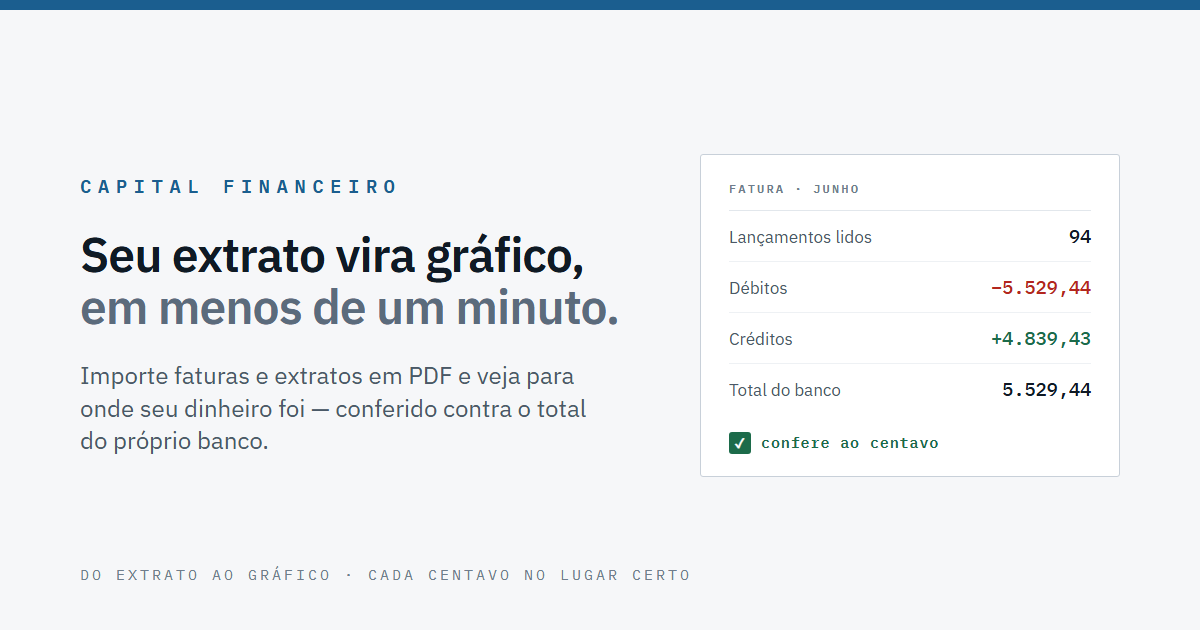
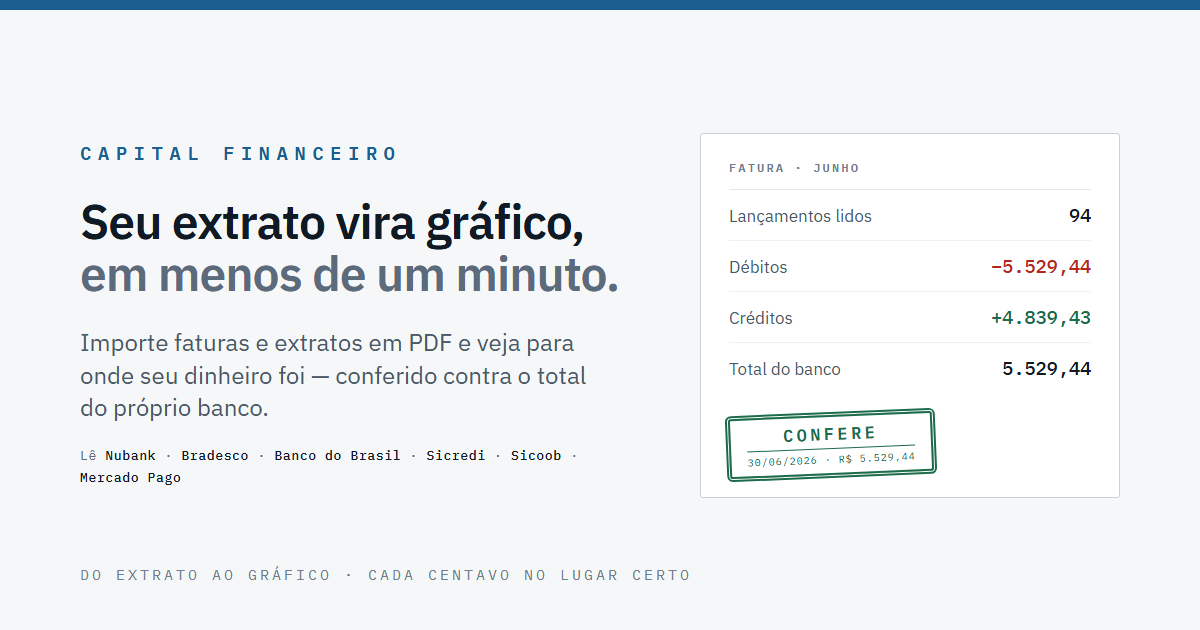
feat(og): o card de compartilhamento ganha o carimbo, e passa a poder trocar
⚠ O og.png publicado era de 12/08 — MAIS ANTIGO que o proprio template que o
gera. O `og-card.html` foi atualizado depois e ninguem regerou a imagem, entao
quem compartilhava o link via um card que nao correspondia nem ao HTML do
repositorio.

O QUE MUDOU NO CARD:

- O "✓ confere ao centavo" num quadradinho virou O CARIMBO, o mesmo que a tela
  desenha desde hoje: traco duplo, inclinado, caixa alta espacejada e o
  detalhe (data e valor) separado por regua. Card que promete uma tela
  diferente da real e propaganda enganosa de si mesmo.
- Entrou a lista dos seis bancos que o app le, com o Mercado Pago. E a
  primeira pergunta de quem ve o link: "serve para o MEU banco?".
- Cada banco carrega o proprio separador e nao quebra no meio — sem isso o "·"
  sobrava sozinho no comeco da segunda linha.

⚠ E O `?v=` NO og:image, QUE E O QUE FAZ ISTO CHEGAR NA TELA DE ALGUEM.
WhatsApp, Telegram e as redes guardam o card por semanas: publicar um og.png
novo na MESMA URL nao muda o que aparece quando o link e compartilhado. Sem o
sufixo, todo este commit seria invisivel — o card velho continuaria saindo. E
a mesma razao do `?v=moeda` que o favicon ja usava, e agora esta escrita ao
lado das duas tags.

npm run verificar verde nos seis passos, CSP incluida (as meta tags nao tocam
o script inline, entao o hash continua valendo).

diff --git a/scripts/og-card.html b/scripts/og-card.html
@@ -111,19 +111,48 @@
       .linha b.debito { color: #b3261e; }
       .linha b.credito { color: #1c6b4a; }
 
-      .confere {
-        display: flex; align-items: center; gap: 10px;
-        margin-top: 18px;
-        font-family: 'Plex Mono', monospace;
-        font-size: 15px; font-weight: 600; letter-spacing: 0.06em;
+      /* O CARIMBO, o mesmo que a tela desenha desde 2026-08-31
+         (`ui/CarimboConferencia.tsx`): traço duplo, inclinado, caixa alta com
+         espacejamento, e o detalhe embaixo separado por régua. Era um ✓ num
+         quadradinho; virou o que o app de fato mostra — um card de
+         compartilhamento que promete uma tela diferente da real é propaganda
+         enganosa de si mesmo. */
+      .carimbo {
+        display: inline-block;
+        margin-top: 22px;
+        padding: 9px 16px 7px;
+        border: 2px solid #1c6b4a;
+        border-radius: 3px;
+        box-shadow: 0 0 0 1px #ffffff, 0 0 0 3px #1c6b4a;
         color: #1c6b4a;
+        transform: rotate(-2.4deg);
+        text-align: center;
       }
-      .confere .marca-check {
-        width: 22px; height: 22px; border-radius: 3px;
-        background: #1c6b4a; color: #ffffff;
-        display: grid; place-items: center;
-        font-size: 13px; font-weight: 700;
+      .carimbo .palavra {
+        font-family: 'Plex Mono', monospace;
+        font-size: 17px; font-weight: 600;
+        letter-spacing: 0.2em; text-transform: uppercase; line-height: 1;
       }
+      .carimbo .detalhe {
+        font-family: 'Plex Mono', monospace;
+        font-size: 10px; letter-spacing: 0.1em;
+        margin-top: 5px; padding-top: 4px;
+        border-top: 1px solid currentColor;
+        font-variant-numeric: tabular-nums;
+      }
+
+      /* Os bancos que o app lê. Entra no card porque é a primeira pergunta de
+         quem vê o link: "serve para o MEU banco?". */
+      .bancos {
+        margin-top: 22px; max-width: 540px;
+        font-family: 'Plex Mono', monospace;
+        font-size: 13px; letter-spacing: 0.05em; line-height: 1.7;
+        color: #5d6b78;
+      }
+      /* Cada banco carrega o próprio separador e não quebra no meio: sem
+         isto o "·" sobra sozinho no começo da segunda linha. */
+      .bancos .banco { white-space: nowrap; }
+      .bancos b { color: #0f1a24; font-weight: 500; }
     </style>
   </head>
   <body>
@@ -136,6 +165,14 @@
         <span class="fraca">em menos de um minuto.</span>
       </h1>
       <p>Importe faturas e extratos em PDF e veja para onde seu dinheiro foi — conferido contra o total do próprio banco.</p>
+      <div class="bancos">
+        Lê <span class="banco"><b>Nubank</b> ·</span>
+        <span class="banco"><b>Bradesco</b> ·</span>
+        <span class="banco"><b>Banco do Brasil</b> ·</span>
+        <span class="banco"><b>Sicredi</b> ·</span>
+        <span class="banco"><b>Sicoob</b> ·</span>
+        <span class="banco"><b>Mercado Pago</b></span>
+      </div>
       <div class="rodape">Do extrato ao gráfico · cada centavo no lugar certo</div>
     </div>
 
@@ -145,7 +182,10 @@
       <div class="linha"><span>Débitos</span><b class="debito">−5.529,44</b></div>
       <div class="linha"><span>Créditos</span><b class="credito">+4.839,43</b></div>
       <div class="linha" style="border-bottom: none"><span>Total do banco</span><b>5.529,44</b></div>
-      <div class="confere"><span class="marca-check">✓</span> confere ao centavo</div>
+      <div class="carimbo">
+        <div class="palavra">Confere</div>
+        <div class="detalhe">30/06/2026 · R$ 5.529,44</div>
+      </div>
     </div>
   </body>
 </html>

diff --git a/frontend/index.html b/frontend/index.html
@@ -11,7 +11,13 @@
     <!-- Card de compartilhamento (WhatsApp, Telegram, Discord).
          og:image PRECISA ser URL absoluta: os servidores desses apps buscam a
          imagem de fora e não alcançam caminho relativo nem localhost. Trocar
-         o domínio abaixo quando o deploy definir a URL real. -->
+         o domínio abaixo quando o deploy definir a URL real.
+
+         ⚠ O `?v=` NÃO é enfeite. WhatsApp, Telegram e as redes guardam o
+         card por semanas: publicar um og.png novo na MESMA URL não muda o
+         que aparece quando alguém compartilha. Trocar o sufixo é o que força
+         a rebusca — mesma razão do `?v=moeda` no favicon. Mudou a imagem,
+         muda o sufixo. -->
     <meta property="og:type" content="website" />
     <meta property="og:locale" content="pt_BR" />
     <meta property="og:site_name" content="Capital Financeiro" />
@@ -21,7 +27,7 @@
       content="Importe faturas e extratos em PDF e enxergue seus gastos por categoria, dia, mês e ano."
     />
     <meta property="og:url" content="https://capital-financeiro.vercel.app/" />
-    <meta property="og:image" content="https://capital-financeiro.vercel.app/og.png" />
+    <meta property="og:image" content="https://capital-financeiro.vercel.app/og.png?v=carimbo" />
     <meta property="og:image:width" content="1200" />
     <meta property="og:image:height" content="630" />
     <meta property="og:image:alt" content="Capital Financeiro — seu extrato vira gráfico, em menos de um minuto." />
@@ -31,7 +37,7 @@
       name="twitter:description"
       content="Importe faturas e extratos em PDF e enxergue seus gastos por categoria, dia, mês e ano."
     />
-    <meta name="twitter:image" content="https://capital-financeiro.vercel.app/og.png" />
+    <meta name="twitter:image" content="https://capital-financeiro.vercel.app/og.png?v=carimbo" />
     <!-- O `?v=` é o que faz o ícone novo aparecer. Favicon é dos recursos mais
          agressivamente cacheados que existe: o navegador continua servindo o
          desenho antigo por dias mesmo com deploy novo, e trocar o conteúdo do
